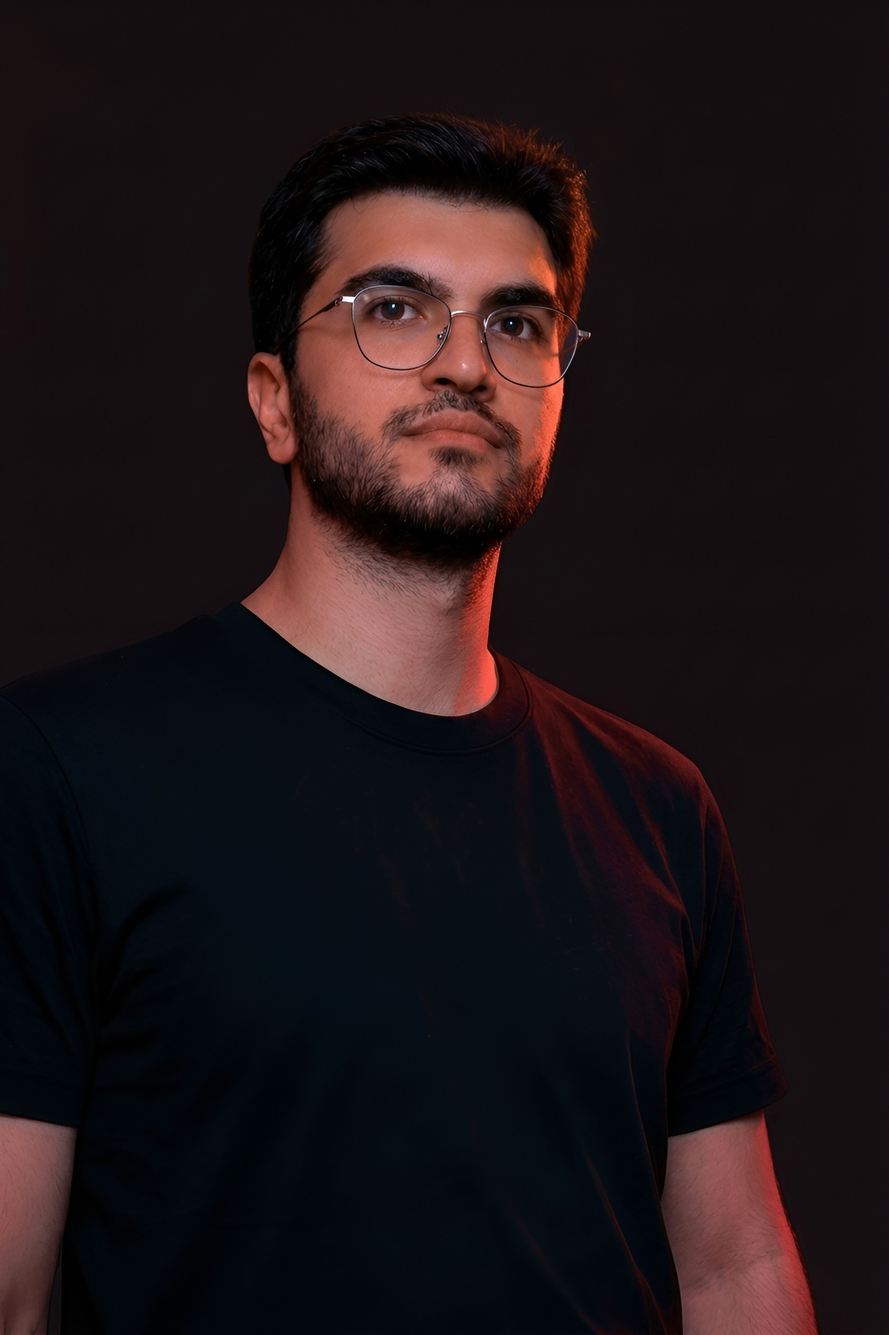
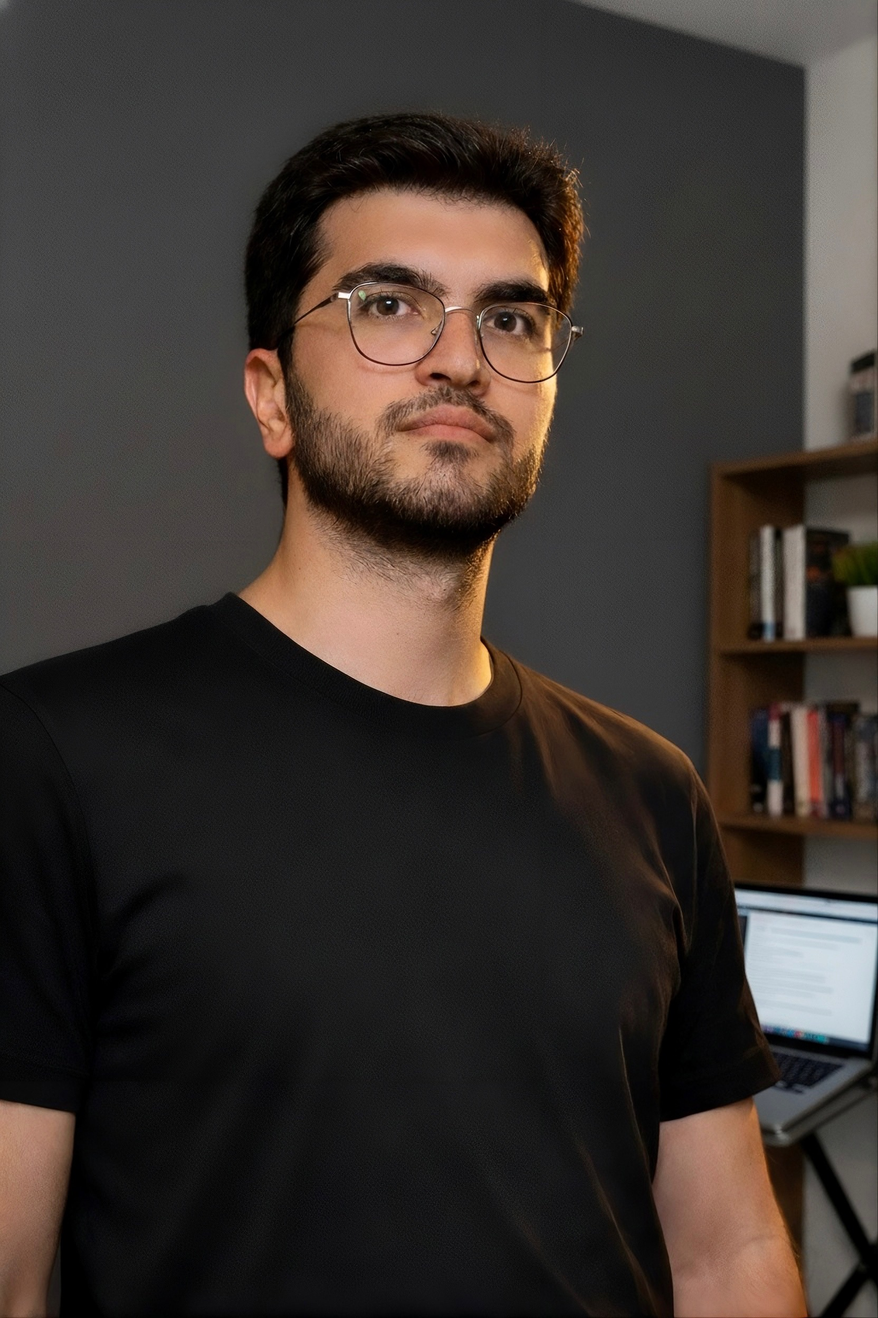
fix

diff --git a/components/ProfileHeader.tsx b/components/ProfileHeader.tsx
@@ -169,9 +169,7 @@ export default function ProfileHeader() {
               priority
               sizes="(max-width: 860px) 250px, 340px"
             />
-          </div>
-
-          <div className="badge">
+                <div className="badge">
             <div className="badge-head">
               <i aria-hidden="true" />
               <span>Open to work</span>
@@ -182,6 +180,9 @@ export default function ProfileHeader() {
               ))}
             </ul>
           </div>
+          </div>
+
+      
         </div>
       </div>
 

diff --git a/styles/components/_profile.scss b/styles/components/_profile.scss
@@ -359,18 +359,13 @@
   right: 0;
   bottom: 0;
   z-index: 2;
-
   display: flex;
   flex-direction: column;
   overflow: hidden;
-
   padding: 0.8rem 3.1rem;
-  border-radius: 0 0 24px 24px;
-
   background: var(--glass);
   backdrop-filter: blur(14px);
   -webkit-backdrop-filter: blur(14px);
-
   transition:
     background-color 0.25s ease,
     border-color 0.25s ease;
@@ -379,7 +374,6 @@
     display: flex;
     align-items: center;
     gap: 0.5rem;
-
     color: var(--red);
     font-size: 0.7rem;
     font-weight: 700;
